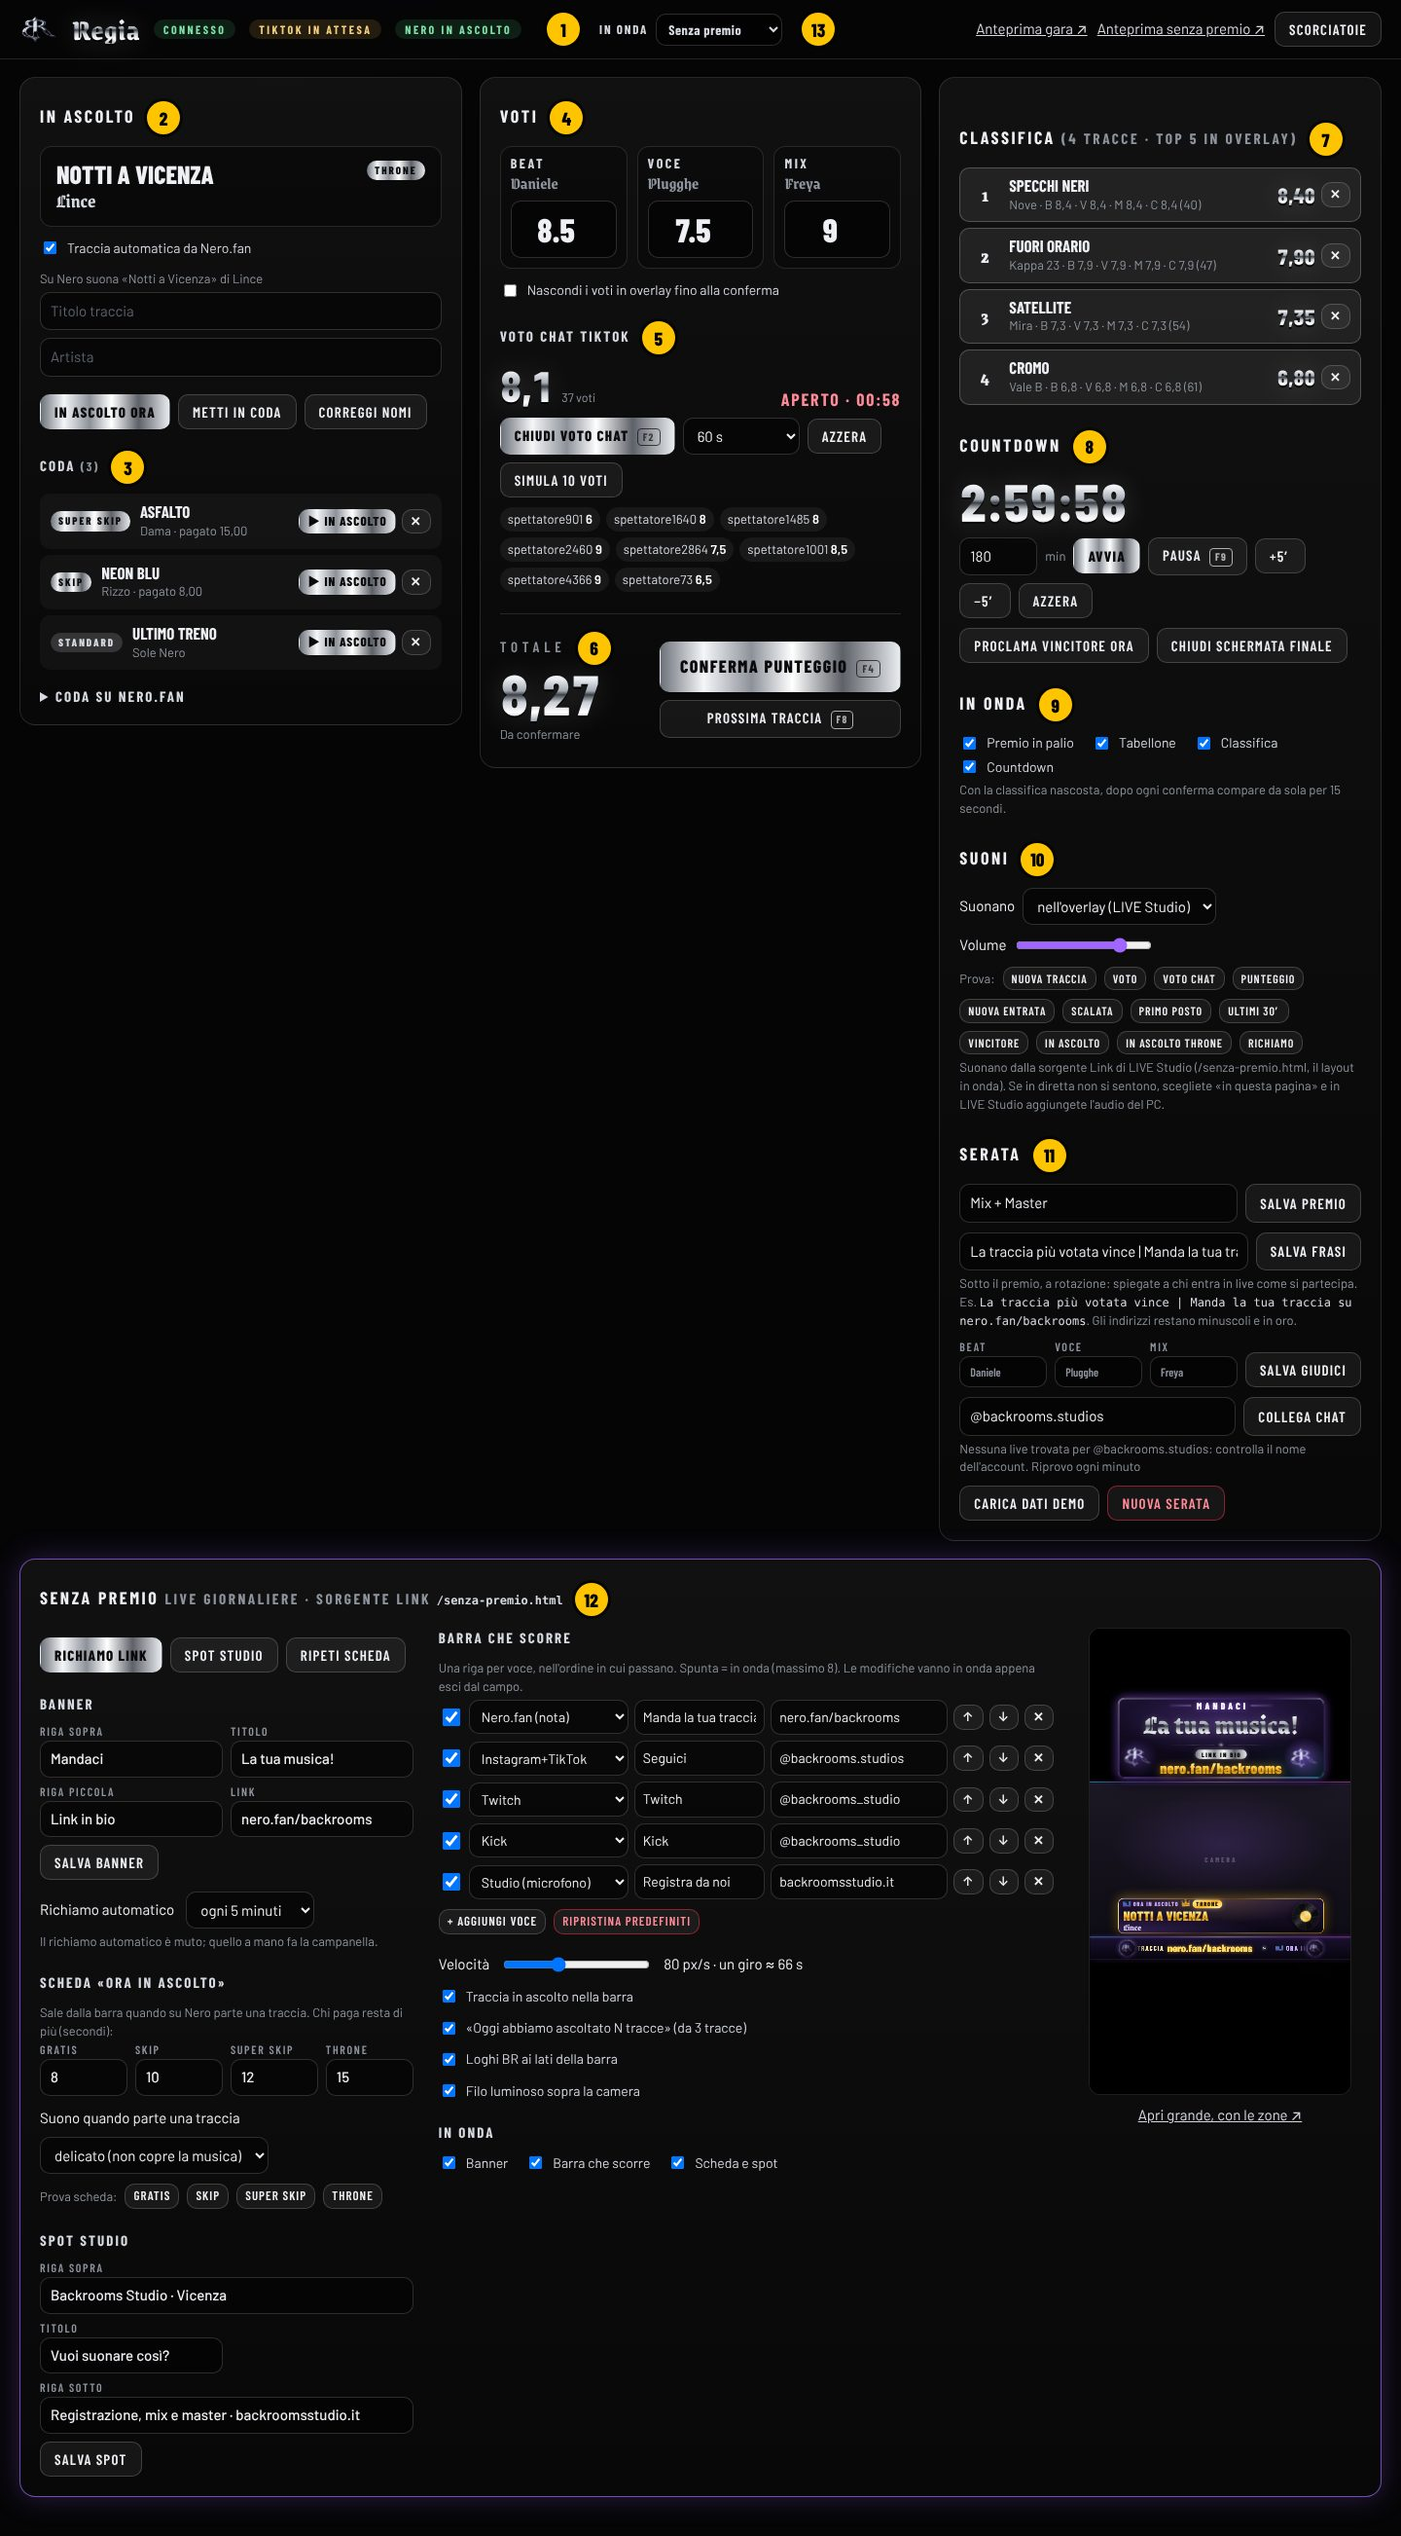
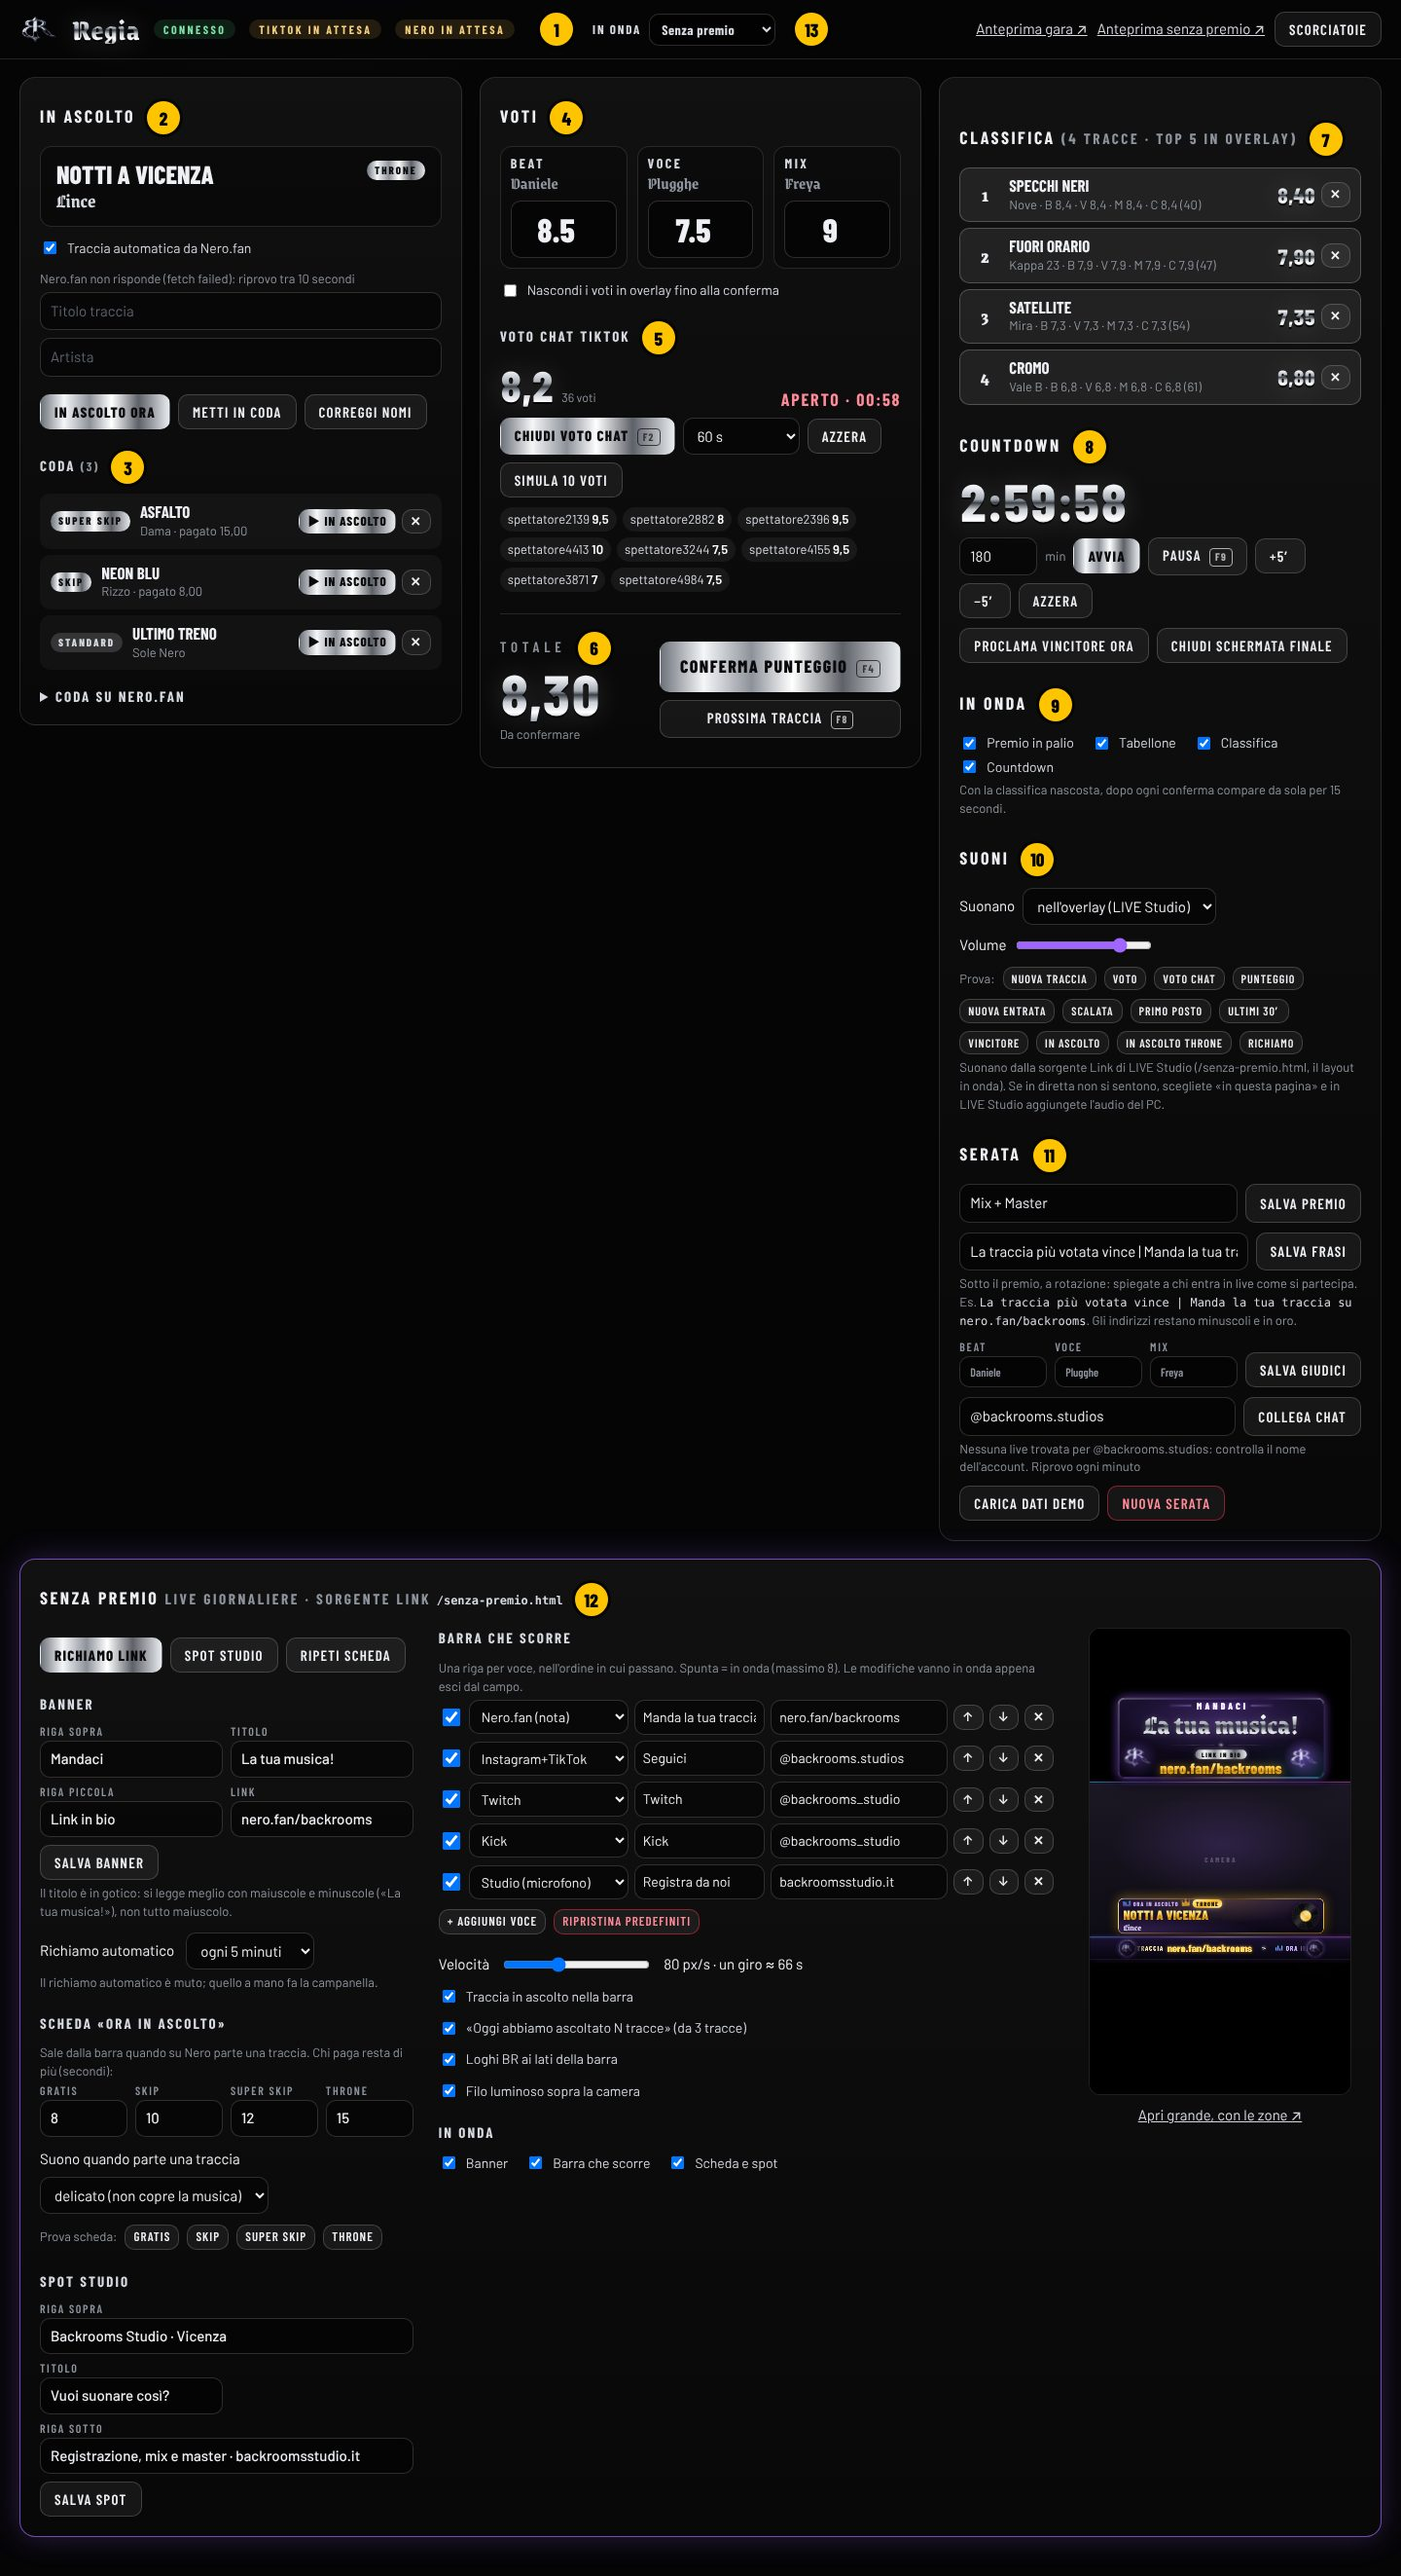
Layout senza premio: scheda più ariosa, mockup aggiornati, lezioni nella skill
- Scheda «Ora in ascolto» e spot: i tre testi entrano nei 148 px senza
  toccare il bordo (spot con titolo gotico a 52 px e riga sotto alta 36).
- Regia: consiglio di scrivere il titolo gotico in maiuscole e minuscole.
- Mockup rigenerati (senza premio, zone, spot, regia con le zone 1–13).
- Skill: trappole emerse dalla revisione (font in cache, limiti dei campi,
  campi della regia non salvati, sorgenti divise, stato salvato rotto).

Claude-Session: https://claude.ai/code/session_01QFyocUE99NiWnoiDMQFqUz

diff --git a/overlay-live/public/css/senza-premio.css b/overlay-live/public/css/senza-premio.css
@@ -387,7 +387,7 @@ body.sp.anteprima {
   top: calc(var(--sp-y-scheda) - 1010px);
   width: var(--sp-largo);
   height: 148px;
-  padding: 10px 22px;
+  padding: 8px 22px; /* testa 30 + 4 + titolo 58 + artista 40 = 132 */
   display: grid;
   grid-template-columns: minmax(0, 1fr) 108px;
   gap: 20px;
@@ -570,9 +570,9 @@ body.sp.anteprima {
   display: block;
 }
 .sp-scheda.studio .sp-scheda-titolo {
-  font: 900 56px/1.1 var(--font-gotico);
+  font: 900 52px/1.04 var(--font-gotico);
   text-transform: none;
-  padding: 0 4px 6px 0;
+  padding: 0 4px 2px 0;
   background: linear-gradient(105deg, transparent 38%, rgba(255, 255, 255, 0.95) 50%, transparent 62%) no-repeat, var(--cromo);
   background-size: 260% 100%, 100% 100%;
   background-position: 160% 0, 0 0;
@@ -583,7 +583,8 @@ body.sp.anteprima {
   filter: drop-shadow(0 2px 0 rgba(0, 0, 0, 0.85)) drop-shadow(0 0 14px rgba(255, 255, 255, 0.14));
 }
 .sp-scheda.studio .sp-scheda-artista {
-  font: 800 30px/42px var(--font-dati);
+  height: 36px;
+  font: 800 30px/36px var(--font-dati);
   color: #fff;
 }
 

diff --git a/overlay-live/GUIDA.html b/overlay-live/GUIDA.html
@@ -399,7 +399,7 @@ Webhook Nero.fan in ascolto su http://127.0.0.1:4748/webhook/nero</pre>
       <p class="intro">La regia la usa una persona sola. I numeri gialli sono le zone della regia nell'immagine.</p>
 
       <figure class="figura">
-        <img src="mockup/regia.jpg" alt="La regia con le zone numerate da 1 a 13" width="1440" height="2605" loading="lazy">
+        <img src="mockup/regia.jpg" alt="La regia con le zone numerate da 1 a 13" width="1440" height="2646" loading="lazy">
         <figcaption>La regia con i dati demo.</figcaption>
       </figure>
       <ul class="legenda">

diff --git a/overlay-live/public/js/senza-premio.js b/overlay-live/public/js/senza-premio.js
@@ -357,7 +357,7 @@ function riempiScheda(r) {
 // Corpi della scheda: il gotico non scende sotto 34 px (poi i puntini), il resto in Barlow sì.
 function adattaScheda(tipo) {
   if (tipo === "studio") {
-    adattaTesto(scheda.titolo, 54, 34); // gotico
+    adattaTesto(scheda.titolo, 52, 34); // gotico
     adattaTesto(scheda.artista, 30, 24);
   } else {
     adattaTesto(scheda.titolo, 54, 32);

diff --git a/.claude/skills/overlay-live-tiktok/riferimenti/architettura-e-riuso.md b/.claude/skills/overlay-live-tiktok/riferimenti/architettura-e-riuso.md
@@ -251,3 +251,13 @@ curl -X POST http://127.0.0.1:4747/api/countdown -H "Content-Type: application/j
 - Un tipo di file assente da `TIPI` esce come `application/octet-stream`.
 - **Giudici**: nel modello sono un oggetto `{ beat, voce, mix }`. `caricaConfig` scarta una lista scritta in `config.json` (`tuo.giudici && !Array.isArray(tuo.giudici) ? tuo.giudici : {}`) e la fusione `{ ...base.giudici, ...giudici }` trasforma una lista di base in un oggetto `{ 0, 1, 2 }`. `caricaStato` sostituisce una lista salvata con i giudici di config. Il nome di un ospite cambiato in `config.json` sparisce senza errori. Se il nuovo formato usa una lista, riscrivi quelle righe (es. `giudici: Array.isArray(tuo.giudici) ? tuo.giudici : base.giudici`) e togli la migrazione in `caricaStato`. Se cambi le chiavi, cambia anche il comando `giudici` (scorre `S.CATEGORIE`). Testa con un `config.json` che cambia un nome.
 - Niente `color-mix()` nel CSS (Chromium vecchio in OBS e LIVE Studio): colori espliciti, come in `base.css`.
+
+Emerse dalla revisione del layout senza premio (ottobre 2026), valgono per ogni pagina nuova:
+- **Font in cache**: in OBS e LIVE Studio i font sono spesso già nella cache. Allora `document.fonts.ready` arriva **prima** dello stato del server e i pesi usati dai testi (Barlow 900, Grenze Gotisch) si caricano dopo: i testi restano adattati col font di riserva e un nastro che scorre salta di ~100 px. Rimisura in una funzione collegata sia a `fonts.ready` sia a `fonts.addEventListener("loadingdone", …)`.
+- **Limiti dei campi = quello che entra**: il `maxlength` della regia e il limite di `imposta…()` devono entrare al corpo minimo di `adattaTesto`. Prova ogni campo al limite (e in MAIUSCOLO) con Playwright: `scrollWidth <= clientWidth` e altezza di una riga sola (`white-space: nowrap` sugli span in un flex).
+- **Regia, campi che si perdono**: `riempi()` salta solo il campo col fuoco. Un campo cambiato e non salvato va segnato (`data-modificato`) e lasciato stare fino al salvataggio. I `select` e i cursori invece mostrano sempre il valore in onda, e dopo la scelta perdono il fuoco (`blur()`), altrimenti le frecce cambiano ciò che è in onda. Un valore rifiutato dal server torna subito a quello vero.
+- **Elenchi modificabili in regia**: una riga nuova si manda solo quando è completa; una riga che esiste già si manda sempre (così un testo svuotato dà errore invece di cancellare la voce).
+- **Sorgenti divise con `?w=`**: ogni suono deve dire la sua parte (`parte: "scheda"`, `"banner"`) e suonare solo dalla pagina che mostra quella parte; un nastro senza la sua barra non deve girare.
+- **Comandi che non si vedono**: se la parte è spenta (In onda) o un'animazione è già in corso, il comando risponde con un errore chiaro invece di «ok» e una campanella a vuoto.
+- **Stato salvato**: ogni valore salvato passa dagli stessi controlli della regia (`fondi…()` chiama `imposta…()` campo per campo); un elenco salvato con elementi `null` non deve far chiudere il server all'avvio.
+- **Un effetto sonoro che fallisce** non deve fermare il disegno: in `suona()` `Object.hasOwn` e `try/catch`; il server passa ai pulsanti Prova solo i dati attesi.
